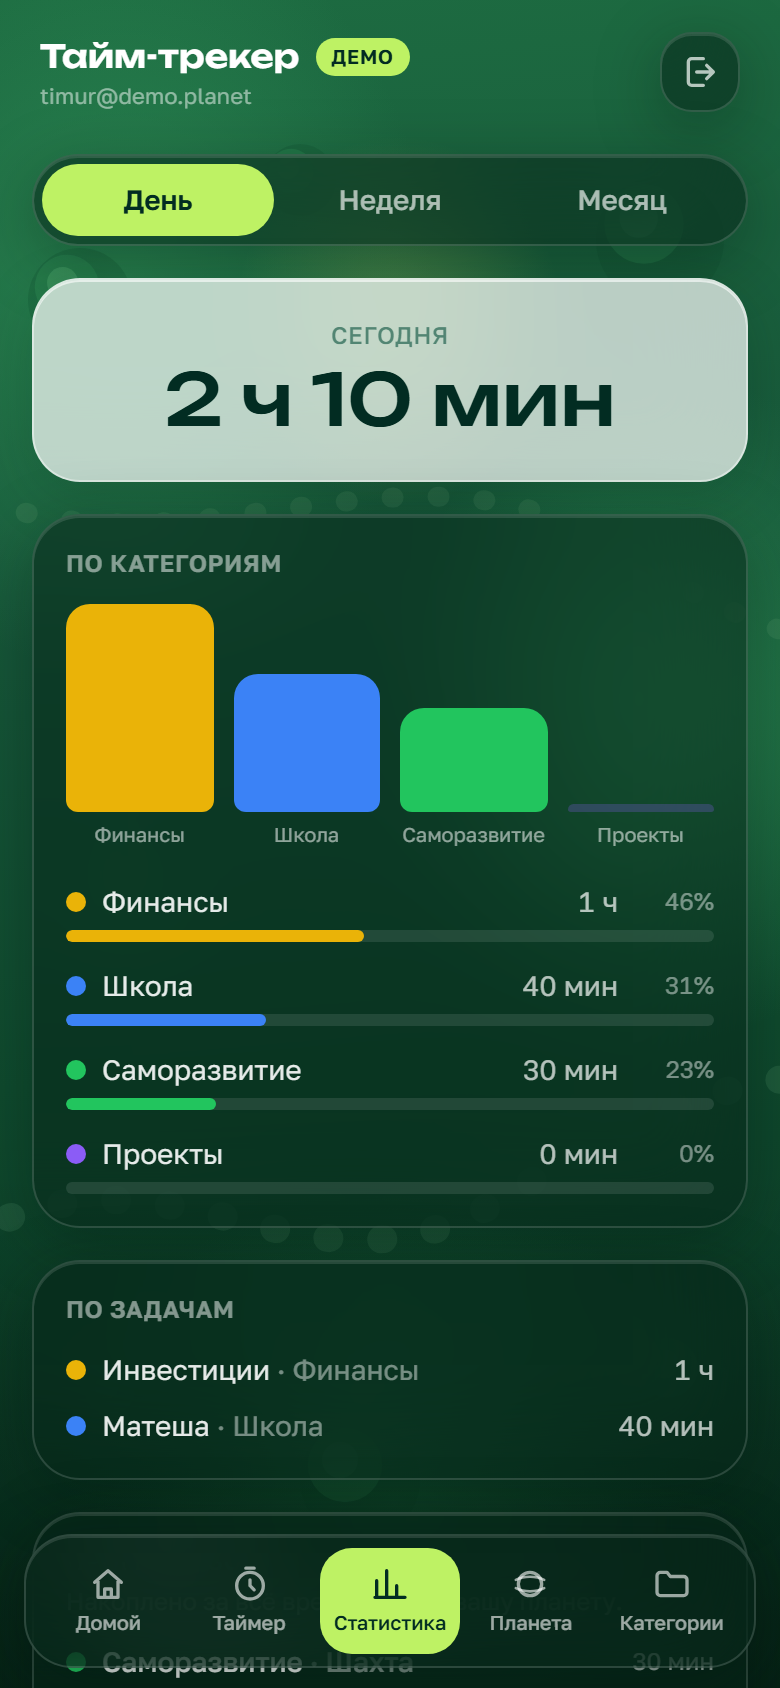
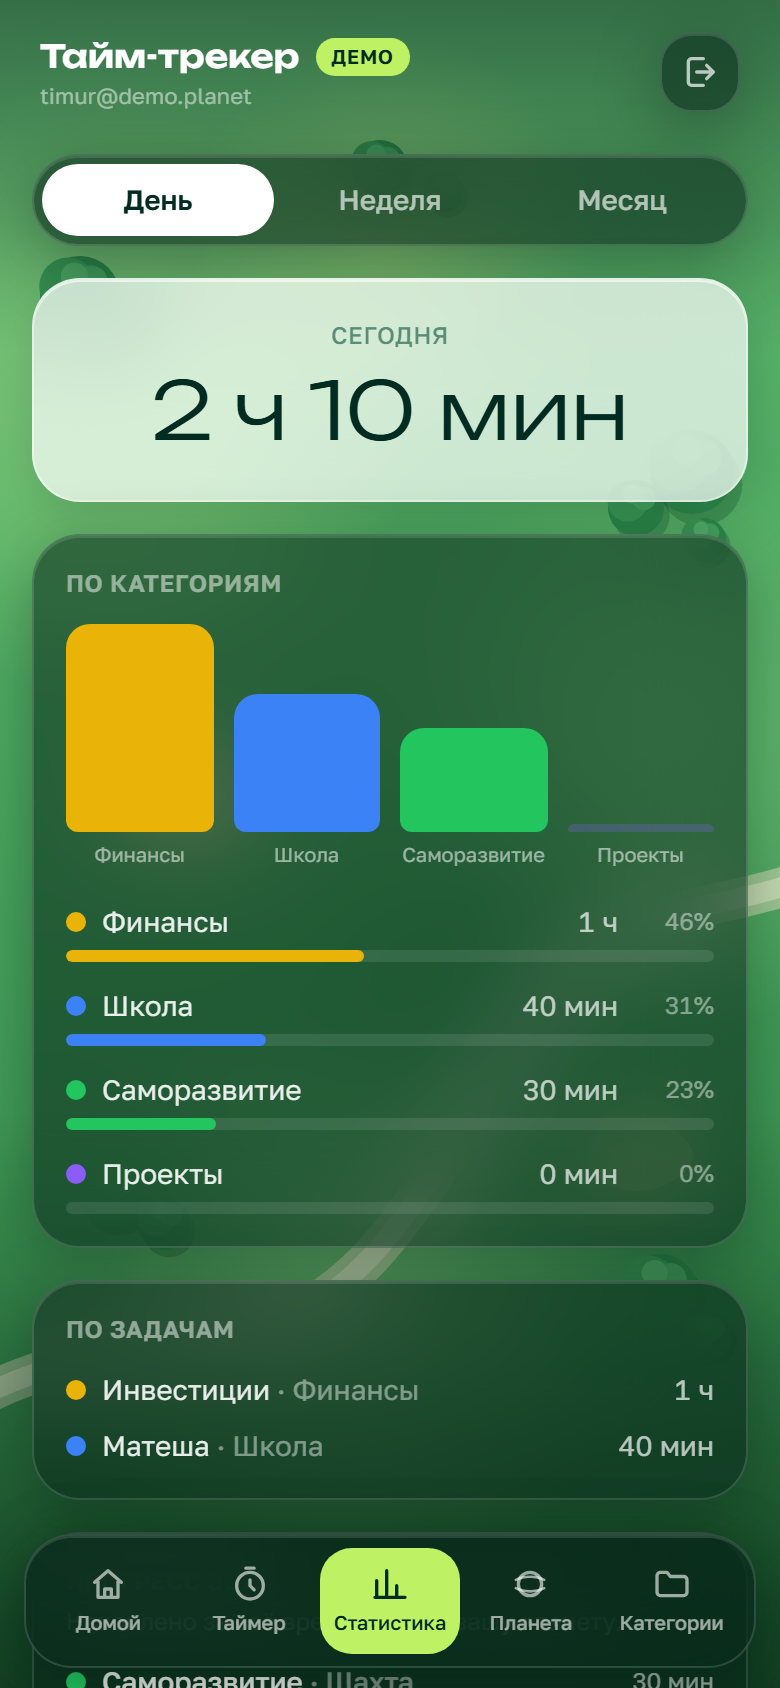
Полировка под референсы: солнечная сцена, белые пилюли, тонкие цифры, богаче планета
- Сцена: светлая сочная зелень «вида сверху» — поляны 2–3 тонов, кроны
  с тенью, светлая извилистая тропинка, песочные пятна; виньетки
  сверху/снизу для контраста стеклянных панелей
- Сегмент-контролы: активная пилюля теперь белая с тёмным текстом
  (Статистика, Вход/Регистрация, задачи в Таймере, темы в Категориях);
  лайм остался на таб-баре, Старт/Продолжить и акцентах
- Крупные цифры: Unbounded 300 (light) на «Домой», Таймере и итоге
  Статистики, добавлен вес 300 в подключение шрифтов
- Планета: поляны-материки, мини-кроны, тропинки между зонами,
  rim-свечение атмосферы, два облачка; постройки зон крупнее (~1.3x)
- Скриншоты 01–05 переснятны (390x844 @2x)

diff --git a/src/ui/Scene.tsx b/src/ui/Scene.tsx
@@ -1,12 +1,30 @@
 /**
  * Живая зелёная сцена — общий фон всех экранов (этап 2).
- * Чистый CSS/SVG: сочная зелень «вида сверху», световые пятна-поляны,
- * тропинки. Никаких фото и однотонных заливок.
+ * Залитая солнцем сочная зелень «вида сверху»: поляны разных оттенков,
+ * скопления крон с тенью, светлая извилистая тропинка, песочные пятна.
+ * Сверху/снизу — лёгкие тёмные виньетки, чтобы стеклянные панели читались.
  */
 
 interface SceneProps {
   /** Расфокус сцены (экран «Таймер») */
   blurred?: boolean;
+}
+
+/** Скопление крон деревьев: тень, крона, два блика. */
+function Crowns({ dots }: { dots: [number, number, number][] }) {
+  return (
+    <>
+      {dots.map(([x, y, r], i) => (
+        <g key={i}>
+          <circle cx={x + r * 0.2} cy={y + r * 0.28} r={r} fill="#14532d" opacity="0.3" />
+          <circle cx={x} cy={y} r={r} fill="#2e8a4c" />
+          <circle cx={x - r * 0.3} cy={y - r * 0.24} r={r * 0.72} fill="#3c9a58" />
+          <circle cx={x + r * 0.28} cy={y - r * 0.34} r={r * 0.42} fill="#47a662" />
+          <circle cx={x - r * 0.14} cy={y - r * 0.5} r={r * 0.34} fill="#54b26c" />
+        </g>
+      ))}
+    </>
+  );
 }
 
 export function Scene({ blurred = false }: SceneProps) {
@@ -16,68 +34,90 @@ export function Scene({ blurred = false }: SceneProps) {
       className="pointer-events-none fixed inset-0 -z-10 overflow-hidden"
       style={{
         background:
-          'linear-gradient(175deg, #1d6b41 0%, #17573a 34%, #0f4a2e 62%, #093322 100%)',
+          'linear-gradient(172deg, #6fbf7c 0%, #55b167 28%, #429c58 60%, #2f8347 100%)',
         filter: blurred ? 'blur(14px)' : undefined,
         transform: blurred ? 'scale(1.06)' : undefined,
       }}
     >
-      {/* Поляны — светлые пятна зелени */}
+      {/* Поляны — сочные пятна зелени разных тонов */}
       <div
-        className="absolute -left-24 top-[-6%] h-[46vh] w-[80vw] rounded-full opacity-70"
-        style={{ background: 'radial-gradient(closest-side, #2f9158, transparent)' }}
+        className="absolute -left-20 top-[4%] h-[38vh] w-[75vw] rounded-full opacity-70"
+        style={{ background: 'radial-gradient(closest-side, #9ada84, transparent)' }}
       />
       <div
-        className="absolute right-[-20%] top-[22%] h-[40vh] w-[70vw] rounded-full opacity-60"
-        style={{ background: 'radial-gradient(closest-side, #34a35f, transparent)' }}
+        className="absolute right-[-18%] top-[26%] h-[36vh] w-[68vw] rounded-full opacity-65"
+        style={{ background: 'radial-gradient(closest-side, #7ccf7f, transparent)' }}
       />
       <div
-        className="absolute bottom-[-8%] left-[8%] h-[38vh] w-[85vw] rounded-full opacity-50"
-        style={{ background: 'radial-gradient(closest-side, #1f7c49, transparent)' }}
+        className="absolute bottom-[6%] left-[4%] h-[34vh] w-[80vw] rounded-full opacity-55"
+        style={{ background: 'radial-gradient(closest-side, #8ed488, transparent)' }}
       />
-      {/* Лаймовый солнечный блик */}
+      {/* Тёмная поляна для глубины */}
       <div
-        className="absolute left-[30%] top-[8%] h-[22vh] w-[42vw] rounded-full opacity-25"
-        style={{ background: 'radial-gradient(closest-side, #d8f36b, transparent)' }}
+        className="absolute left-[38%] top-[46%] h-[26vh] w-[55vw] rounded-full opacity-40"
+        style={{ background: 'radial-gradient(closest-side, #1f7c43, transparent)' }}
       />
-      {/* Тропинки и кроны — SVG-штрихи */}
+      {/* Солнечный лаймовый блик */}
+      <div
+        className="absolute left-[24%] top-[2%] h-[24vh] w-[52vw] rounded-full opacity-35"
+        style={{ background: 'radial-gradient(closest-side, #e3f78a, transparent)' }}
+      />
+
+      {/* Тропинка, песок, кроны — SVG-слой */}
       <svg
-        className="absolute inset-0 h-full w-full opacity-40"
+        className="absolute inset-0 h-full w-full"
         viewBox="0 0 390 844"
         preserveAspectRatio="xMidYMid slice"
       >
+        {/* Извилистая светлая тропинка */}
         <path
-          d="M-20 620 C 90 560, 150 660, 250 600 S 420 520, 440 560"
-          stroke="#7fbf8f"
-          strokeOpacity="0.35"
-          strokeWidth="14"
+          d="M-24 706 C 70 650, 130 700, 196 616 S 268 470, 356 452 S 430 420, 440 400"
+          stroke="#e9e6c6"
+          strokeOpacity="0.5"
+          strokeWidth="20"
           strokeLinecap="round"
           fill="none"
-          strokeDasharray="1 26"
         />
         <path
-          d="M-30 240 C 80 300, 200 210, 300 270 S 430 330, 460 300"
-          stroke="#a9d9a0"
-          strokeOpacity="0.25"
+          d="M-24 706 C 70 650, 130 700, 196 616 S 268 470, 356 452 S 430 420, 440 400"
+          stroke="#f4f1d8"
+          strokeOpacity="0.45"
           strokeWidth="10"
           strokeLinecap="round"
           fill="none"
-          strokeDasharray="1 22"
         />
-        {[
-          [40, 150, 26], [330, 120, 32], [70, 460, 22], [320, 430, 26],
-          [180, 740, 30], [60, 700, 20], [340, 690, 24], [150, 90, 18],
-        ].map(([x, y, r], i) => (
-          <g key={i}>
-            <circle cx={x} cy={y} r={r} fill="#0c4a2c" opacity="0.55" />
-            <circle cx={x - r / 4} cy={y - r / 4} r={r * 0.62} fill="#2c8a52" opacity="0.8" />
-            <circle cx={x - r / 3} cy={y - r / 3} r={r * 0.3} fill="#5cb878" opacity="0.9" />
-          </g>
-        ))}
+        {/* Песочные пятна */}
+        <path
+          d="M64 386 q 26 -18 52 -4 q 24 13 6 28 q -22 18 -48 8 q -24 -10 -10 -32 Z"
+          fill="#ecdca6"
+          opacity="0.8"
+        />
+        <path
+          d="M300 566 q 20 -12 38 0 q 16 11 2 22 q -18 13 -36 4 q -16 -9 -4 -26 Z"
+          fill="#e8d59c"
+          opacity="0.7"
+        />
+        {/* Скопления крон */}
+        <Crowns
+          dots={[
+            [40, 148, 20], [66, 162, 15], [50, 182, 12],
+            [346, 236, 21], [318, 254, 14], [352, 270, 11],
+            [190, 84, 14], [222, 96, 10],
+            [56, 596, 17], [82, 612, 13],
+            [330, 646, 19], [354, 668, 12], [306, 664, 10],
+            [148, 508, 11],
+          ]}
+        />
       </svg>
-      {/* Мягкая виньетка снизу под таб-бар */}
+
+      {/* Виньетки сверху и снизу — чтобы стекло и текст читались */}
       <div
-        className="absolute inset-x-0 bottom-0 h-64"
-        style={{ background: 'linear-gradient(to top, rgba(3,20,12,0.55), transparent)' }}
+        className="absolute inset-x-0 top-0 h-44"
+        style={{ background: 'linear-gradient(to bottom, rgba(6,45,26,0.55), transparent)' }}
+      />
+      <div
+        className="absolute inset-x-0 bottom-0 h-72"
+        style={{ background: 'linear-gradient(to top, rgba(4,30,17,0.65), transparent)' }}
       />
     </div>
   );

diff --git a/src/screens/Planet.tsx b/src/screens/Planet.tsx
@@ -27,7 +27,7 @@ import { LoadingBlock } from '../ui/Spinner';
 import { ArrowLeftIcon } from '../ui/Icons';
 
 const R = 130; // радиус планеты, px
-const ZONE_LIFT = 24; // насколько зона приподнята над поверхностью
+const ZONE_LIFT = 35; // насколько зона приподнята над поверхностью
 
 interface Zone {
   cat: Category;
@@ -222,21 +222,77 @@ export function PlanetScreen() {
               height: R * 2,
               transform: `rotate(${rot}deg)`,
               background:
-                'radial-gradient(circle at 34% 30%, #55c26e 0%, #2f9152 38%, #1c6b3c 68%, #0e4527 100%)',
-              boxShadow:
-                '0 24px 70px rgba(3,26,15,0.6), inset -18px -24px 48px rgba(4,32,18,0.55), 0 0 0 10px rgba(216,243,107,0.06)',
+                'radial-gradient(circle at 34% 30%, #86dc96 0%, #4fb26a 40%, #2f9152 70%, #17643a 100%)',
+              boxShadow: '0 24px 70px rgba(3,26,15,0.55)',
             }}
           >
-            {/* Материки-пятна, крутятся вместе с планетой */}
-            <svg viewBox="0 0 260 260" className="h-full w-full opacity-70" aria-hidden="true">
-              <ellipse cx="82" cy="92" rx="34" ry="22" fill="#63c97c" opacity="0.55" />
-              <ellipse cx="180" cy="70" rx="26" ry="16" fill="#3fae62" opacity="0.5" />
-              <ellipse cx="150" cy="180" rx="42" ry="24" fill="#57bd72" opacity="0.45" />
-              <ellipse cx="60" cy="180" rx="20" ry="13" fill="#7fd694" opacity="0.4" />
-              <circle cx="200" cy="150" r="10" fill="#8fe3a3" opacity="0.35" />
-              <circle cx="110" cy="40" r="7" fill="#a9eab8" opacity="0.4" />
+            {/* Поверхность: материки-поляны, кроны, тропинки — крутятся с планетой */}
+            <svg viewBox="0 0 260 260" className="h-full w-full" aria-hidden="true">
+              <defs>
+                <clipPath id="planet-surface">
+                  <circle cx="130" cy="130" r="130" />
+                </clipPath>
+              </defs>
+              <g clipPath="url(#planet-surface)">
+                {/* Материки-поляны разных зелёных */}
+                <ellipse cx="80" cy="86" rx="46" ry="30" fill="#8fdc95" opacity="0.6" />
+                <ellipse cx="186" cy="66" rx="34" ry="22" fill="#5fbf74" opacity="0.6" />
+                <ellipse cx="152" cy="186" rx="52" ry="30" fill="#6cc57e" opacity="0.55" />
+                <ellipse cx="54" cy="178" rx="26" ry="17" fill="#a4e5ae" opacity="0.45" />
+                <ellipse cx="206" cy="152" rx="20" ry="13" fill="#b7edbe" opacity="0.4" />
+                <ellipse cx="126" cy="126" rx="24" ry="15" fill="#3f9e5c" opacity="0.5" />
+                {/* Тропинки между зонами */}
+                <path
+                  d="M 56 66 C 96 106, 164 112, 206 72"
+                  stroke="#e9e6c6" strokeWidth="5" strokeLinecap="round" fill="none" opacity="0.5"
+                />
+                <path
+                  d="M 66 202 C 108 162, 168 166, 206 198"
+                  stroke="#e9e6c6" strokeWidth="5" strokeLinecap="round" fill="none" opacity="0.45"
+                />
+                <path
+                  d="M 128 14 C 118 72, 142 178, 130 246"
+                  stroke="#f2efd4" strokeWidth="4" strokeLinecap="round" fill="none" opacity="0.3"
+                />
+                {/* Скопления мини-крон */}
+                {([
+                  [70, 118, 8], [84, 128, 6], [62, 132, 5],
+                  [178, 108, 8], [192, 118, 6],
+                  [112, 200, 7], [126, 210, 5], [100, 210, 5],
+                  [204, 190, 6], [216, 198, 5],
+                  [150, 52, 6], [162, 60, 5],
+                ] as [number, number, number][]).map(([x, y, r], i) => (
+                  <g key={i}>
+                    <circle cx={x + r * 0.22} cy={y + r * 0.3} r={r} fill="#14532d" opacity="0.32" />
+                    <circle cx={x} cy={y} r={r} fill="#2e8a4c" />
+                    <circle cx={x - r * 0.28} cy={y - r * 0.28} r={r * 0.55} fill="#5cbb74" />
+                  </g>
+                ))}
+              </g>
             </svg>
           </div>
+
+          {/* Свечение атмосферы и объём — не крутятся вместе с планетой */}
+          <div
+            className="pointer-events-none absolute inset-0 rounded-full"
+            style={{
+              boxShadow:
+                'inset 10px 14px 36px rgba(238,255,205,0.32), inset -22px -30px 54px rgba(3,30,16,0.55), 0 0 46px rgba(196,240,150,0.3), 0 0 0 10px rgba(216,243,107,0.07)',
+            }}
+          />
+          {/* Полупрозрачные облачка над поверхностью */}
+          <motion.div
+            className="pointer-events-none absolute left-[16%] top-[24%] h-4 w-14 rounded-full bg-white/40"
+            style={{ filter: 'blur(3px)' }}
+            animate={{ x: [0, 12, 0] }}
+            transition={{ repeat: Infinity, duration: 16, ease: 'easeInOut' }}
+          />
+          <motion.div
+            className="pointer-events-none absolute bottom-[22%] right-[14%] h-3.5 w-11 rounded-full bg-white/30"
+            style={{ filter: 'blur(3px)' }}
+            animate={{ x: [0, -10, 0] }}
+            transition={{ repeat: Infinity, duration: 19, ease: 'easeInOut' }}
+          />
 
           {/* Чувачок отдыхает в центре, когда сессии нет */}
           {!active && (
@@ -259,8 +315,8 @@ export function PlanetScreen() {
                 key={z.cat.id}
                 className="absolute left-1/2 top-1/2"
                 style={{
-                  width: 92,
-                  height: 70,
+                  width: 120,
+                  height: 92,
                   transform: `translate(-50%,-50%) rotate(${a}deg) translateY(-${R + ZONE_LIFT}px)`,
                 }}
               >

diff --git a/src/screens/Timer.tsx b/src/screens/Timer.tsx
@@ -209,7 +209,7 @@ export function TimerScreen() {
         </svg>
         {/* Цифры на стекле */}
         <div className="glass-dark relative flex h-[186px] w-[186px] flex-col items-center justify-center !rounded-full text-center">
-          <p className="font-display text-[30px] font-medium tabular-nums text-white">
+          <p className="font-display text-[32px] font-light tabular-nums text-white">
             {formatClock(elapsed)}
           </p>
           {active ? (
@@ -331,7 +331,7 @@ export function TimerScreen() {
                   onClick={() => setSelectedTaskId(null)}
                   className={`rounded-full px-3.5 py-1.5 text-sm ${
                     selectedTaskId === null
-                      ? 'bg-lime-300 font-semibold text-emerald-950'
+                      ? 'bg-white font-semibold text-gray-900'
                       : 'glass-dark !rounded-full text-white/80'
                   }`}
                 >
@@ -345,7 +345,7 @@ export function TimerScreen() {
                     onClick={() => setSelectedTaskId(task.id)}
                     className={`rounded-full px-3.5 py-1.5 text-sm ${
                       selectedTaskId === task.id
-                        ? 'bg-lime-300 font-semibold text-emerald-950'
+                        ? 'bg-white font-semibold text-gray-900'
                         : 'glass-dark !rounded-full text-white/80'
                     }`}
                   >
@@ -379,7 +379,7 @@ export function TimerScreen() {
               <span className="mx-auto flex h-14 w-14 items-center justify-center rounded-full bg-lime-300 text-emerald-950">
                 <SparkIcon className="h-7 w-7" />
               </span>
-              <p className="mt-4 font-display text-2xl font-medium text-lime-300">
+              <p className="mt-4 font-display text-3xl font-light text-lime-300">
                 +{party.minutes} мин
               </p>
               <p className="mt-2 text-sm text-white/85">

diff --git a/src/screens/Stats.tsx b/src/screens/Stats.tsx
@@ -139,7 +139,7 @@ export function StatsScreen() {
               {isActive && (
                 <motion.span
                   layoutId="period-pill"
-                  className="absolute inset-0 rounded-full bg-lime-300"
+                  className="absolute inset-0 rounded-full bg-white"
                   transition={{ type: 'spring', stiffness: 420, damping: 32 }}
                 />
               )}
@@ -156,7 +156,7 @@ export function StatsScreen() {
         <p className="text-xs font-medium uppercase tracking-wide text-emerald-900/60">
           {period === 'day' ? 'Сегодня' : period === 'week' ? 'За неделю' : 'За месяц'}
         </p>
-        <p className="mt-1 font-display text-4xl font-medium text-emerald-950">
+        <p className="mt-1 font-display text-[40px] font-light leading-tight text-emerald-950">
           {formatDuration(total)}
         </p>
       </div>

diff --git a/src/screens/Categories.tsx b/src/screens/Categories.tsx
@@ -449,7 +449,7 @@ export function CategoriesScreen() {
                         onClick={() => setForm({ ...form, theme: t.slug })}
                         className={`rounded-full px-3.5 py-1.5 text-sm ${
                           isActive
-                            ? 'bg-lime-300 font-semibold text-emerald-950'
+                            ? 'bg-white font-semibold text-gray-900'
                             : 'border border-white/20 text-white/75'
                         }`}
                       >

diff --git a/src/screens/Home.tsx b/src/screens/Home.tsx
@@ -166,7 +166,7 @@ export function HomeScreen({ onNavigate }: { onNavigate: (tab: Tab) => void }) {
         <p className="text-xs font-medium uppercase tracking-wide text-emerald-900/60">
           Сегодня в зачёте
         </p>
-        <p className="mt-1 font-display text-4xl font-medium text-emerald-950">
+        <p className="mt-1 font-display text-[40px] font-light leading-tight text-emerald-950">
           {formatDuration(todayTotal)}
         </p>
         {top3.length > 0 ? (

diff --git a/index.html b/index.html
@@ -7,7 +7,7 @@
     <link rel="preconnect" href="https://fonts.googleapis.com" />
     <link rel="preconnect" href="https://fonts.gstatic.com" crossorigin />
     <link
-      href="https://fonts.googleapis.com/css2?family=Golos+Text:wght@400;500;600&family=Unbounded:wght@400;500;600;700&display=swap"
+      href="https://fonts.googleapis.com/css2?family=Golos+Text:wght@400;500;600&family=Unbounded:wght@300;400;500;600;700&display=swap"
       rel="stylesheet"
     />
   </head>

diff --git a/src/screens/Login.tsx b/src/screens/Login.tsx
@@ -71,7 +71,7 @@ export function LoginScreen() {
                 {isActive && (
                   <motion.span
                     layoutId="auth-pill"
-                    className="absolute inset-0 rounded-full bg-lime-300"
+                    className="absolute inset-0 rounded-full bg-white"
                     transition={{ type: 'spring', stiffness: 420, damping: 32 }}
                   />
                 )}

diff --git a/src/index.css b/src/index.css
@@ -4,7 +4,7 @@
 
 @layer base {
   body {
-    @apply bg-[#0b3b26] font-sans text-white antialiased;
+    @apply bg-[#37884c] font-sans text-white antialiased;
   }
 }
 
